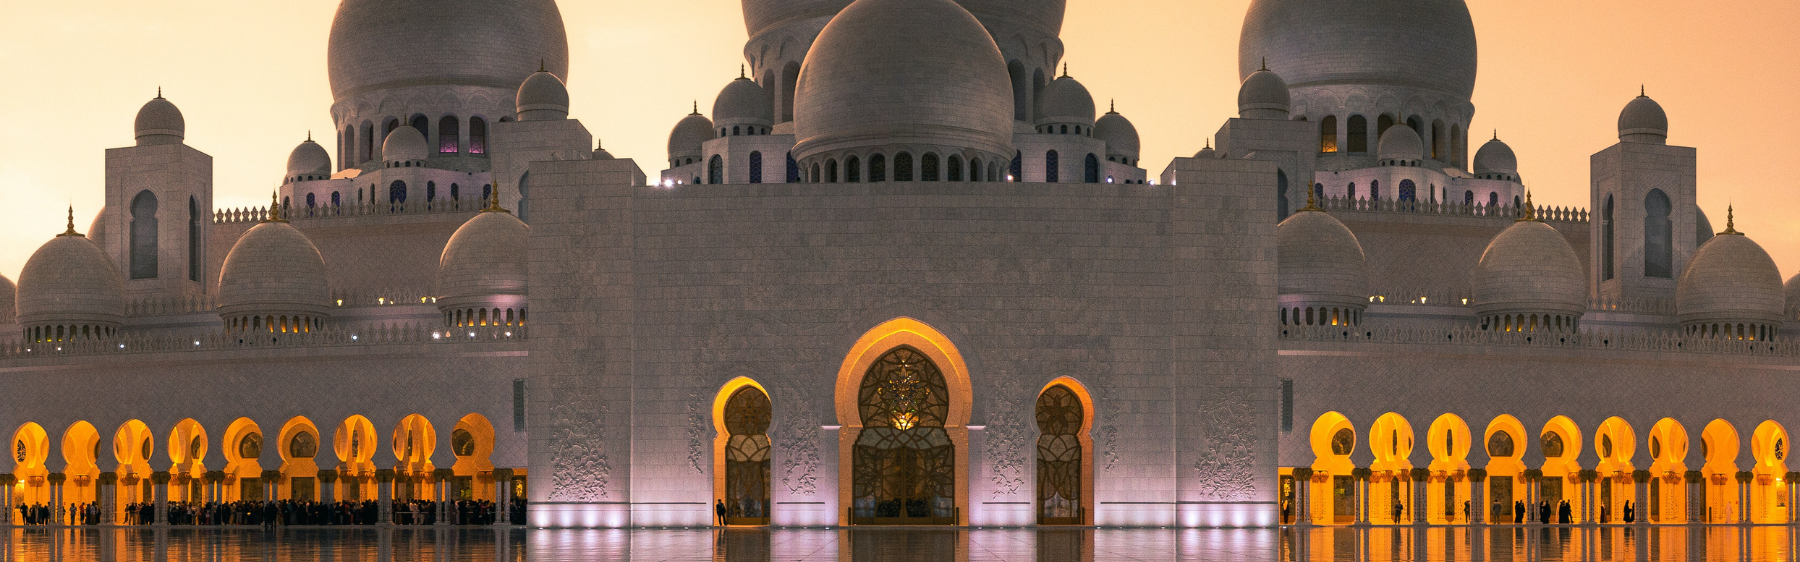
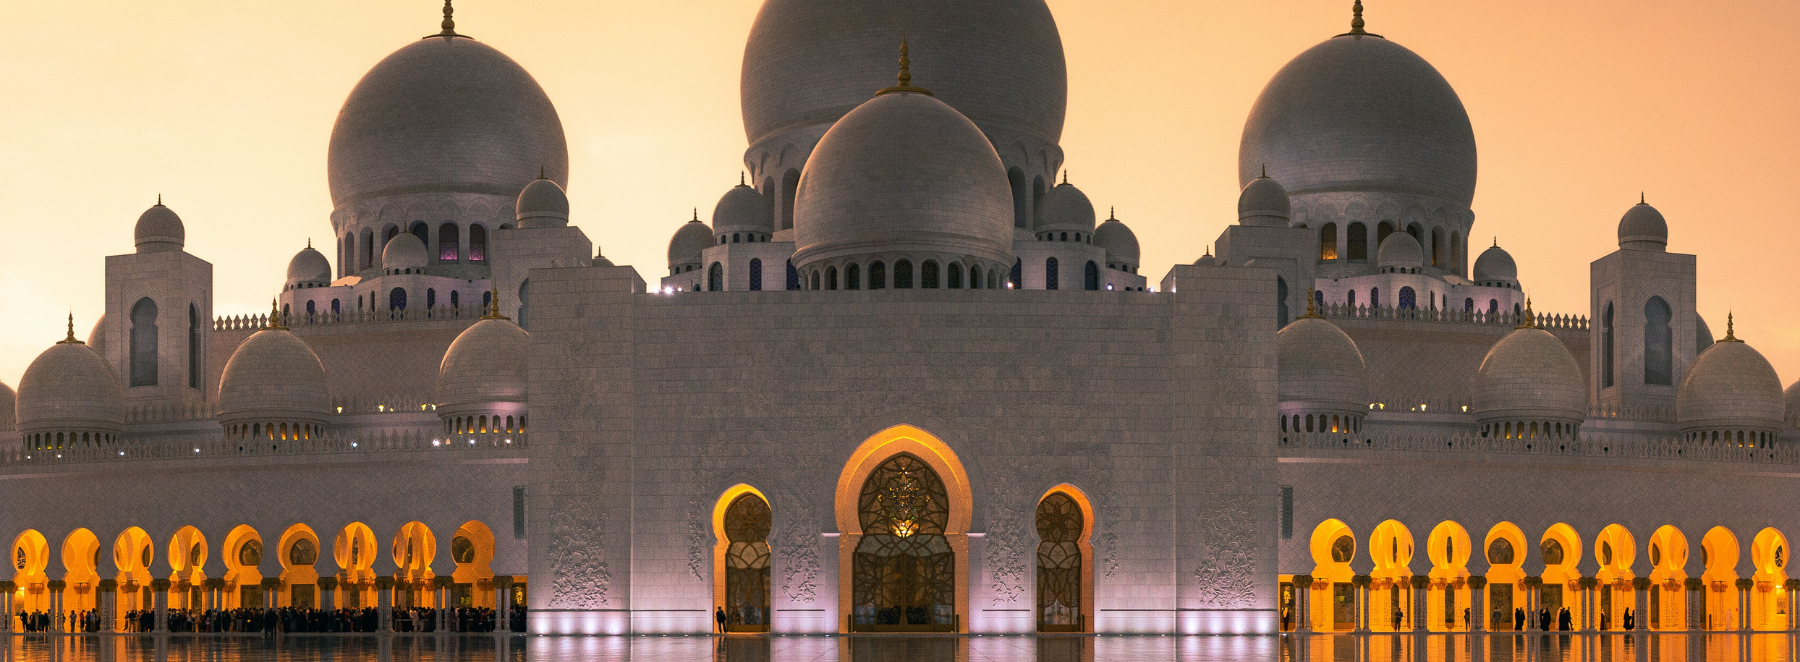
feat: add responsive navbar

diff --git a/components/Home/Navbar/Navbar.tsx b/components/Home/Navbar/Navbar.tsx
@@ -1,0 +1,113 @@
+import React, { useState } from "react";
+import Image, { StaticImageData } from "next/image";
+import Link from "next/link";
+import { AiOutlineMenu, AiOutlineClose } from "react-icons/ai";
+
+interface NavbarProps {
+  logo: StaticImageData;
+}
+
+const Navbar = (props: NavbarProps) => {
+  const { logo } = props;
+
+  const [showNav, setShowNav] = useState(false);
+
+  const handleNav = () => {
+    setShowNav(!showNav);
+  };
+
+  return (
+    <nav className="fixed w-full h-20 z-[100] ease-in-out duration-300">
+      <div className="flex justify-between items-center w-full h-full px-2 md:px-5 xl:px-16">
+        <Link href={"/#home"}>
+          <div className="relative h-[60px] md:h-[60px] w-[56px] md:w-[35px]">
+            <Image
+              className="object-contain"
+              src={logo}
+              fill
+              alt="Masjid Al Muhkim Logo"
+            />
+          </div>
+        </Link>
+        <div>
+          <ul className="hidden md:flex text-white tracking-wide">
+            <li className="ml-8 lg:ml-10 text-sm uppercase hover:border-0">
+              <Link href={"/#home"}>Home</Link>
+            </li>
+            <li className="ml-8 lg:ml-10 text-sm uppercase hover:border-0">
+              <Link href={"/#program"}>Program</Link>
+            </li>
+            <li className="ml-8 lg:ml-10 text-sm uppercase hover:border-0">
+              <Link href={"/#dukungan"}>Dukungan</Link>
+            </li>
+            <li className="ml-8 lg:ml-10 text-sm uppercase hover:border-0">
+              <Link href={"/#dukungan"}>Progres Pembangunan</Link>
+            </li>
+            <li className="ml-8 lg:ml-10 text-sm uppercase hover:border-0">
+              <Link href={"/#infaq"}>Infaq Sekarang!</Link>
+            </li>
+          </ul>
+
+          {/* Humberger Icon Mobile */}
+          <div className="md:hidden cursor-pointer" onClick={handleNav}>
+            <AiOutlineMenu color="white" size={30} />
+          </div>
+
+          {/* Mobile Menu and Overlay */}
+          <div
+            className={`md:hidden fixed top-0 w-full h-screen bg-black/90 duration-300 ${
+              showNav ? "left-0" : "left-[-100%]"
+            }`}
+          >
+            {/* Drawer Menu */}
+            <div
+              className={`fixed top-0 w-full h-screen p-10 ease-in-out duration-500 ${
+                showNav ? "left-0" : "left-[-100%]"
+              }`}
+            >
+              <div className="flex flex-col items-center">
+                <Link href={"/#home"}>
+                  <div className="relative h-[80px] md:h-[60px] w-[80px] md:w-[35px]">
+                    <Image
+                      className="object-contain"
+                      src={logo}
+                      fill
+                      alt="Masjid Al Muhkim Logo"
+                      color="black"
+                    />
+                  </div>
+                </Link>
+
+                <ul className="flex flex-col items-center md:hidden text-white tracking-wide mt-12">
+                  <li className="my-8 text-lg uppercase font-semibold ease-in-out duration-700">
+                    <Link href={"/#home"}>Home</Link>
+                  </li>
+                  <li className="my-8 text-lg uppercase font-semibold ease-in-out duration-700">
+                    <Link href={"/#program"}>Program</Link>
+                  </li>
+                  <li className="my-8 text-lg uppercase font-semibold ease-in-out duration-700">
+                    <Link href={"/#dukungan"}>Dukungan</Link>
+                  </li>
+                  <li className="my-8 text-lg uppercase font-semibold ease-in-out duration-700">
+                    <Link href={"/#dukungan"}>Progres Pembangunan</Link>
+                  </li>
+                  <li className="my-8 text-lg uppercase font-semibold ease-in-out duration-700">
+                    <Link href={"/#infaq"}>Infaq Sekarang!</Link>
+                  </li>
+                </ul>
+                <div
+                  onClick={handleNav}
+                  className="cursor-pointer my-8 rounded-full bg-white p-2"
+                >
+                  <AiOutlineClose color="black" size={30} />
+                </div>
+              </div>
+            </div>
+          </div>
+        </div>
+      </div>
+    </nav>
+  );
+};
+
+export default Navbar;

diff --git a/components/Button/Button.tsx b/components/Button/Button.tsx
@@ -1,0 +1,40 @@
+import Link from "next/link";
+
+interface ButtonProps {
+  title: string;
+  type: "filled" | "ghost";
+  disabled?: boolean;
+  isLoading?: boolean;
+  href?: string;
+  onPress?: Function;
+  className?: string;
+  id?: string;
+}
+
+const Button = (props: Partial<ButtonProps>) => {
+  const { type, title, disabled, isLoading, href = "/", className, id } = props;
+
+  if (type === "ghost") {
+    return (
+      <Link
+        href={href}
+        className={`bg-tranparent text-primary-black hover:text-primary-blue px-4 py-2 rounded-full text-lg outline-none ${className}`}
+        id={id}
+      >
+        {title}
+      </Link>
+    );
+  }
+
+  return (
+    <Link
+      href={href}
+      className={`bg-tranparent text-primary-blue hover:bg-primary-blue hover:text-white px-4 py-2 rounded-full text-lg border-2 border-primary-blue outline-none hover:border-primary-blue ease-in-out duration-300 ${className}`}
+      id={id}
+    >
+      {title}
+    </Link>
+  );
+};
+
+export default Button;

diff --git a/pages/index.tsx b/pages/index.tsx
@@ -2,8 +2,15 @@ import Head from "next/head";
 import Image from "next/image";
 
 import Hero from "../components/Home/Hero";
+import Navbar from "../components/Home/Navbar";
 import HeroMosque from "../public/assets/images/hero-section-mosque.png";
+import Logo from "../public/assets/images/al-muhkim-60x94.png";
 
 export default function Home() {
-  return <Hero image={HeroMosque} />;
+  return (
+    <>
+      <Navbar logo={Logo} />
+      <Hero image={HeroMosque} />
+    </>
+  );
 }

diff --git a/components/Home/Hero/Hero.tsx b/components/Home/Hero/Hero.tsx
@@ -10,7 +10,7 @@ const Hero = (props: HeroProps) => {
 
   return (
     <section id="hero-section" className="relative">
-      <div className="absolute h-[1200px] w-[800px] md:h-screen md:max-h-[500px] md:w-screen">
+      <div className="absolute h-screen w-full md:h-screen md:max-h-[662px] md:w-screen">
         <Image
           className="object-cover"
           src={image}

diff --git a/components/Button/index.tsx b/components/Button/index.tsx
@@ -1,0 +1,2 @@
+import Button from "./Button";
+export default Button;

diff --git a/components/Home/Navbar/index.tsx b/components/Home/Navbar/index.tsx
@@ -1,0 +1,2 @@
+import Navbar from "./Navbar";
+export default Navbar;
